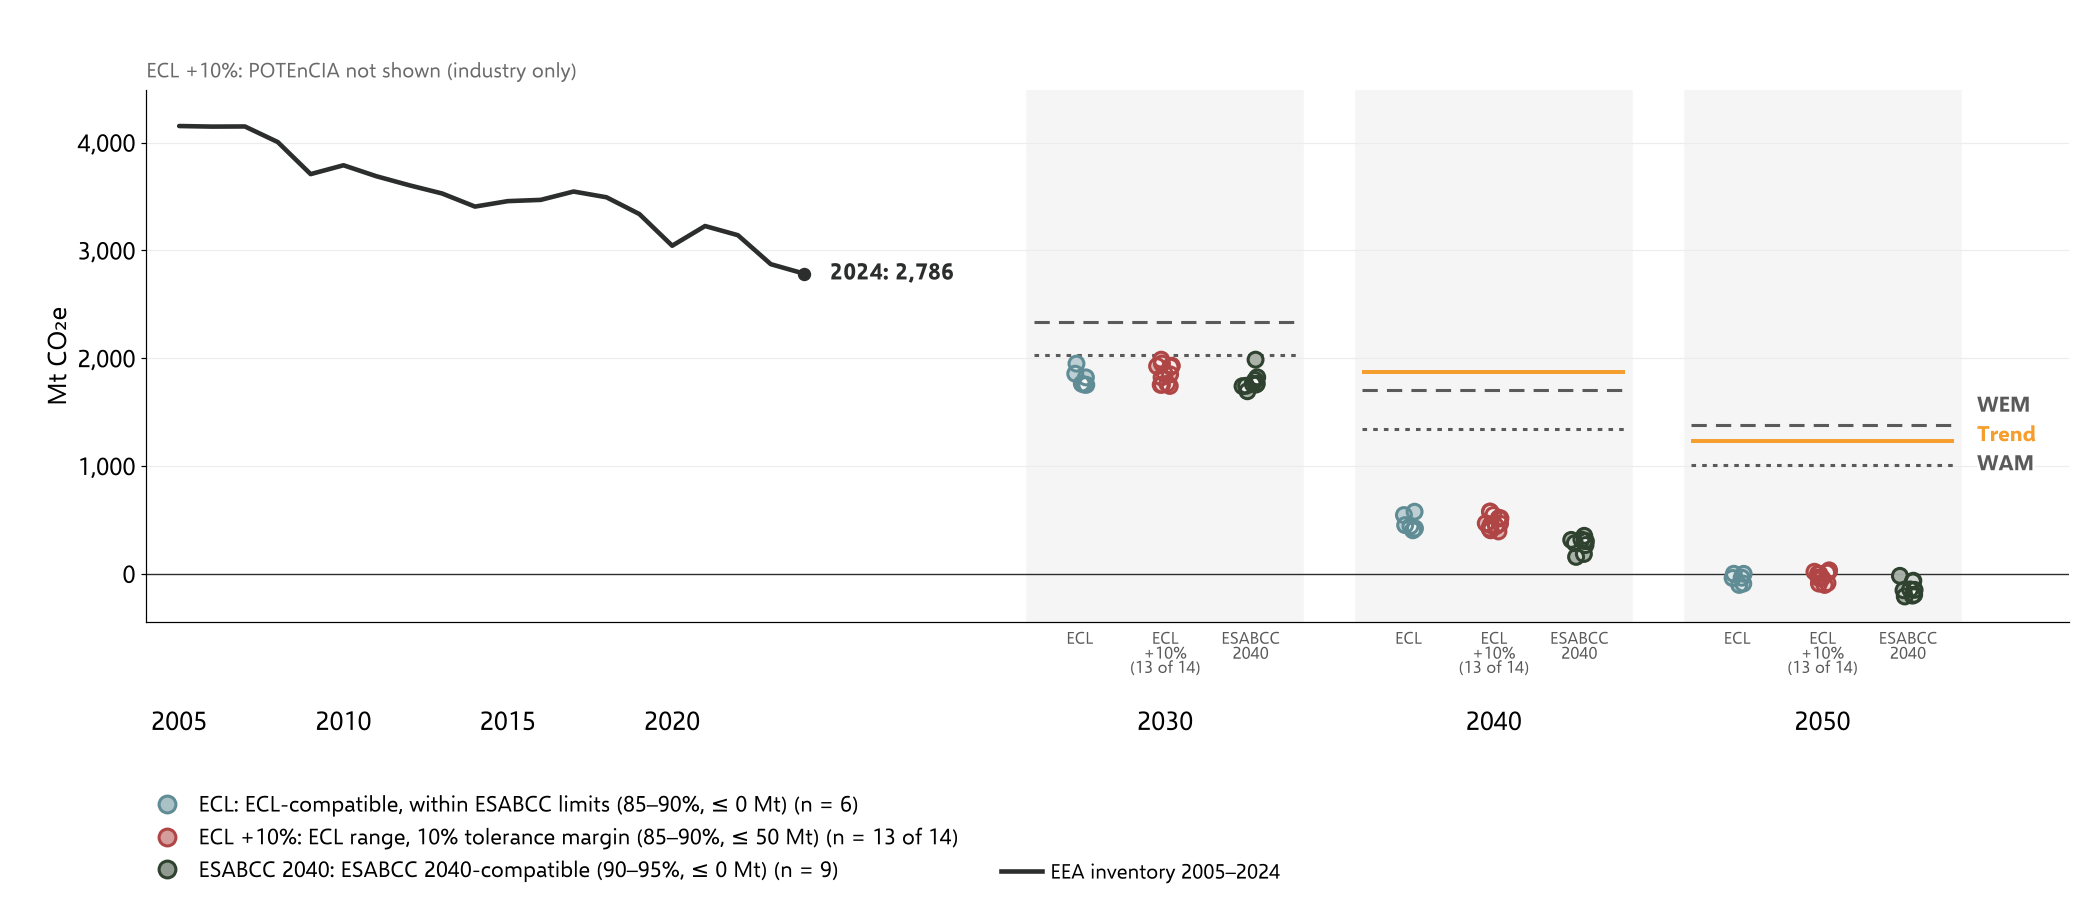
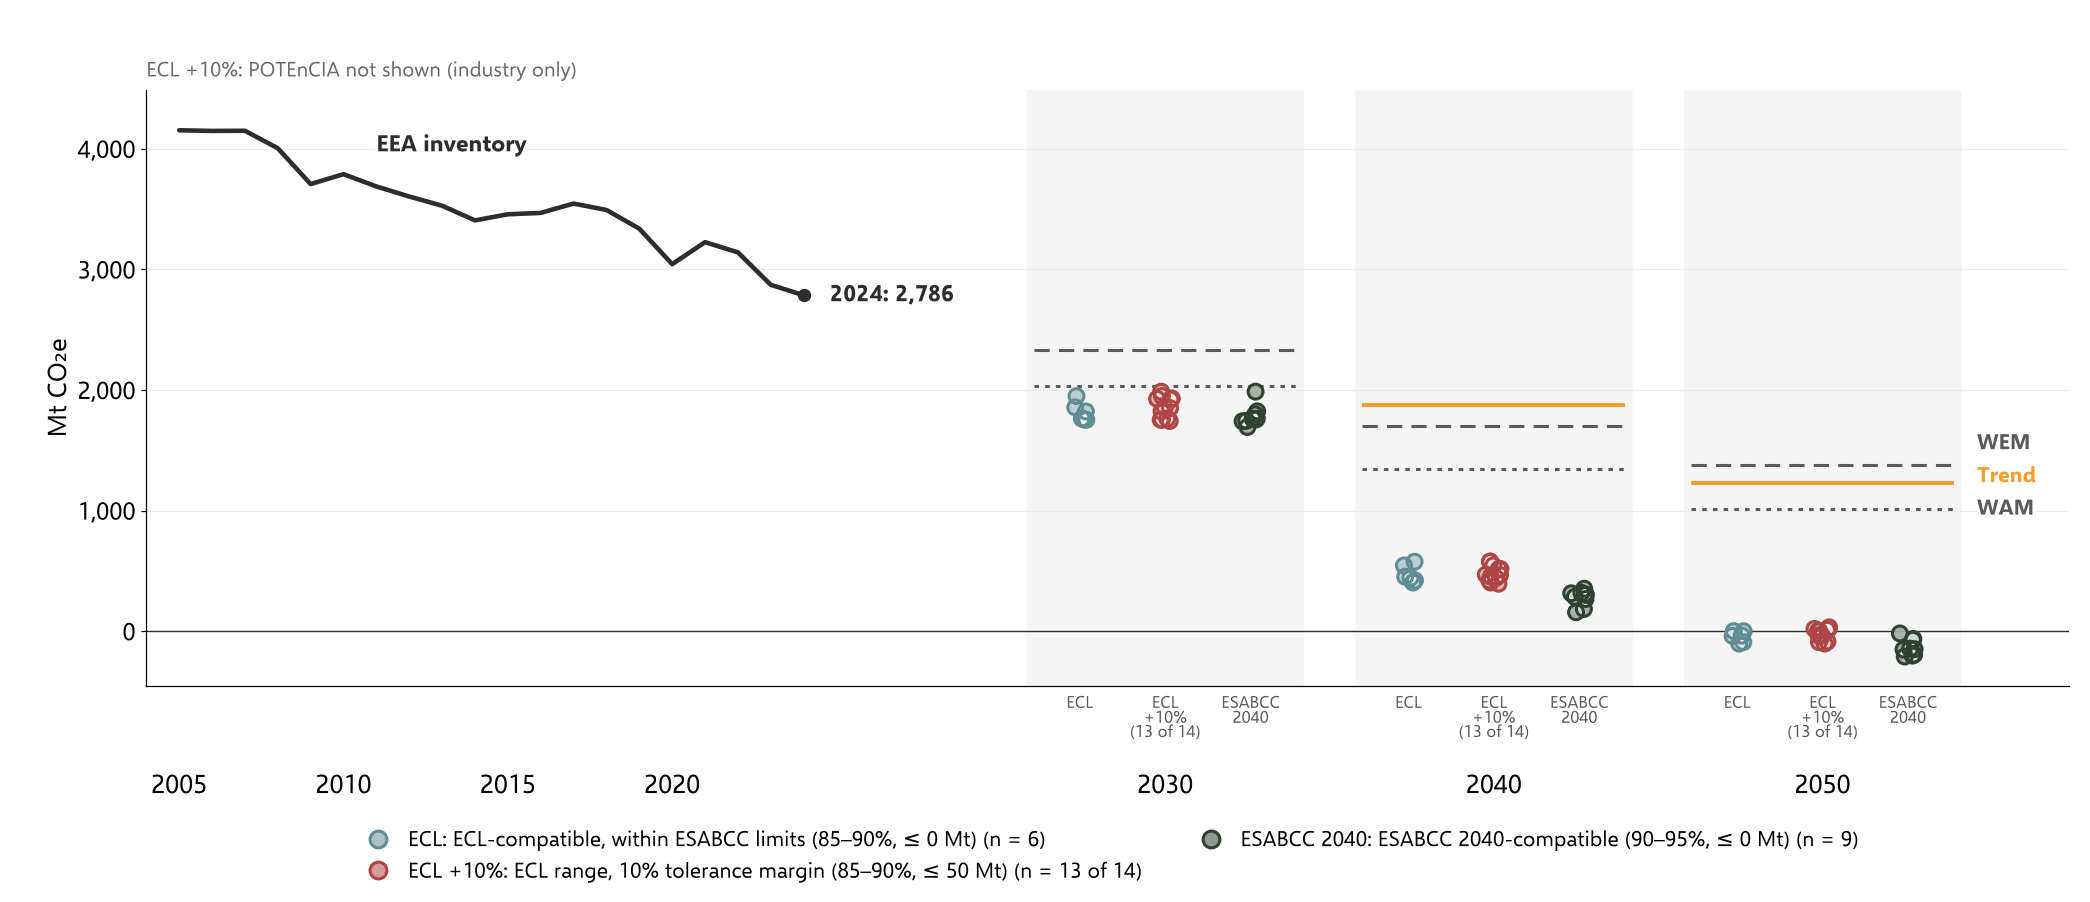
fig(pathway-screening): compact legend below the sector figures; label the EEA inventory on the line
- The EEA inventory line is labelled directly on the chart.
- The legend below now holds only the three pathway sets, in two columns.
- The bottom margin is reduced.
- Applies to the deck and plain versions.

AI-compiled — pending Secretariat verification.

Claude-Session: https://claude.ai/code/session_01PeWhbKqFURwGEMzoiagCdS

diff --git a/scripts/pathway-screening/deck/fig_sector.py b/scripts/pathway-screening/deck/fig_sector.py
@@ -27,6 +27,7 @@ for sk in ('total', 'industry'):
     hs = {y: v for y, v in (HN if sk == 'total' else {y: H[y][sk] for y in H}).items() if y >= 2005}; hy = sorted(hs)
     hi = max(hi, max(hs.values()) * 1.08)
     ax.plot([hx(y) for y in hy], [hs[y] for y in hy], color=HC, lw=3, zorder=3, solid_capstyle='round'); ax.scatter([hx(HY)], [hs[HY]], s=60, color=HC, zorder=4)
+    ax.text(hx(2011), hs[2011] + 0.05 * (hi - lo), 'EEA inventory', ha='left', va='bottom', fontsize=15, fontweight='bold', color=HC, path_effects=halo)   # labelled on the line, not in the legend
     ax.text(hx(HY) + 0.08, hs[HY], f'{HY}: {fmt(hs[HY])}', ha='left', va='center', fontsize=15, fontweight='bold', color='#2c2d2d', path_effects=halo)
     notes = []
     for j, (key, col, lab) in enumerate(SETS):
@@ -72,9 +73,10 @@ for sk in ('total', 'industry'):
     h2 = [Line2D([], [], color=HC, lw=3, label='EEA inventory 2005–2024')]
     pass  # WEM, WAM and Trend are labelled on the chart, not in the legend (27 Nov 2026)
 #    if sk in WW['WEM']: h2 += [Line2D([], [], color='#5a5a5a', lw=2, ls=(0, (5, 3)), label='WEM: MS projections, existing measures'), Line2D([], [], color='#5a5a5a', lw=2, ls=(0, (1.5, 2)), label='WAM: with additional measures'), Line2D([], [], color=TRC, lw=2.6, label='Trend: linear fit to inventory 2005–2024')]
-    f.legend(handles=h, loc='lower left', ncol=1, frameon=False, fontsize=(13 if NARROW else 14.5), bbox_to_anchor=(0.06, 0.0), handletextpad=0.4)
+    # One compact legend below the chart, 2 x 2: history and the three sets (WEM, WAM, Trend are labelled on the chart)
     if PRODAX: h2 += [Line2D([], [], color='#6f6f6f', lw=2.2, ls=(0, (5, 2)), label=('Production, 2005 = 100 (right axis)' if NARROW else 'Production, 2005 = 100 (right axis): tonnes for steel and cement, volume index otherwise'))]
-    f.legend(handles=h2, loc='lower left', ncol=2, frameon=False, fontsize=(11.5 if NARROW else 13.5), bbox_to_anchor=((0.50 if NARROW else 0.47), 0.0), handletextpad=0.4, columnspacing=1.0)
+    hh = h + h2[1:]   # the three pathway sets; the inventory line is labelled on the chart
+    f.legend(handles=hh, loc='lower center', ncol=2, frameon=False, fontsize=(12.5 if NARROW else 14), bbox_to_anchor=(0.53, 0.0), handletextpad=0.4, columnspacing=2.2, labelspacing=0.5)
     if notes: ax.text(0.0, 1.015, '\n'.join(textwrap.fill(n_, 165) for n_ in notes), transform=ax.transAxes, fontsize=13.5, color='#6a6a6a', va='bottom')
     if FULL:
         # Secondary axis: Eurostat production index (sts_inpr_a, EU27, 2005 = 100), scaled so that 100 = industry emissions 2005,
@@ -100,8 +102,8 @@ for sk in ('total', 'industry'):
         for q in range(1, len(ends)):
             if ends[q][0] - ends[q - 1][0] < 6.5: ends[q][0] = ends[q - 1][0] + 6.5
         for v, t, c_ in ends: ax2.text(hx(HY) + 0.08, v, t, fontsize=13, color=c_, va='center', ha='left', fontweight='bold', path_effects=halo)
-        ax.texts[0].set_text(f'{HY}: {fmt(hs[HY])} (index {hs[HY] / e05 * 100:.0f})')
-        ax.texts[0].set_position((hx(HY) + 0.08, hs[HY] - 0.07 * (hi - lo)) if not NARROW else (hx(HY) - 0.35, hs[HY] - 0.10 * (hi - lo)))
+        ax.texts[1].set_text(f'{HY}: {fmt(hs[HY])} (index {hs[HY] / e05 * 100:.0f})')
+        ax.texts[1].set_position((hx(HY) + 0.08, hs[HY] - 0.07 * (hi - lo)) if not NARROW else (hx(HY) - 0.35, hs[HY] - 0.10 * (hi - lo)))
     if FULL:
         # Panel: average annual reductions, historic (EEA inventory) and required by the ECL set (range over its pathways)
         from matplotlib.patches import Rectangle
@@ -126,7 +128,7 @@ for sk in ('total', 'industry'):
         for xa in (PAN[0][1], PAN[1][1]):
             ax.annotate('', (xa + 0.07, yb + hb / 2), (xa - 0.07, yb + hb / 2), xycoords=tr, textcoords=tr, arrowprops=dict(arrowstyle='simple', fc='#3b6fb6', ec='#2a4f86', lw=0.8, mutation_scale=22), annotation_clip=False)
         OUT[sk]['reductions'] = dict(hist=round(hist, 1), r2024_2040=[round(min(a), 1), round(max(a), 1)], r2040_2050=[round(min(b), 1), round(max(b), 1)], n=len(ecl))
-    f.subplots_adjust(left=0.07, right=(0.935 if PRODAX else 0.99), top=(0.75 if FULL else (0.96 if PLAIN else 0.90)), bottom=(0.265 if sk == 'industry' else 0.31))
+    f.subplots_adjust(left=0.07, right=(0.935 if PRODAX else 0.99), top=(0.75 if FULL else (0.96 if PLAIN else 0.90)), bottom=(0.20 if sk == 'industry' else 0.24))
     if PLAIN: f.savefig(f'f3_{sk}_plain.png', dpi=150, facecolor='white')
     else: f.savefig(f'f3_{sk}_narrow.png' if NARROW else f'f3_{sk}.png', dpi=110, transparent=True)
     plt.close(f)
